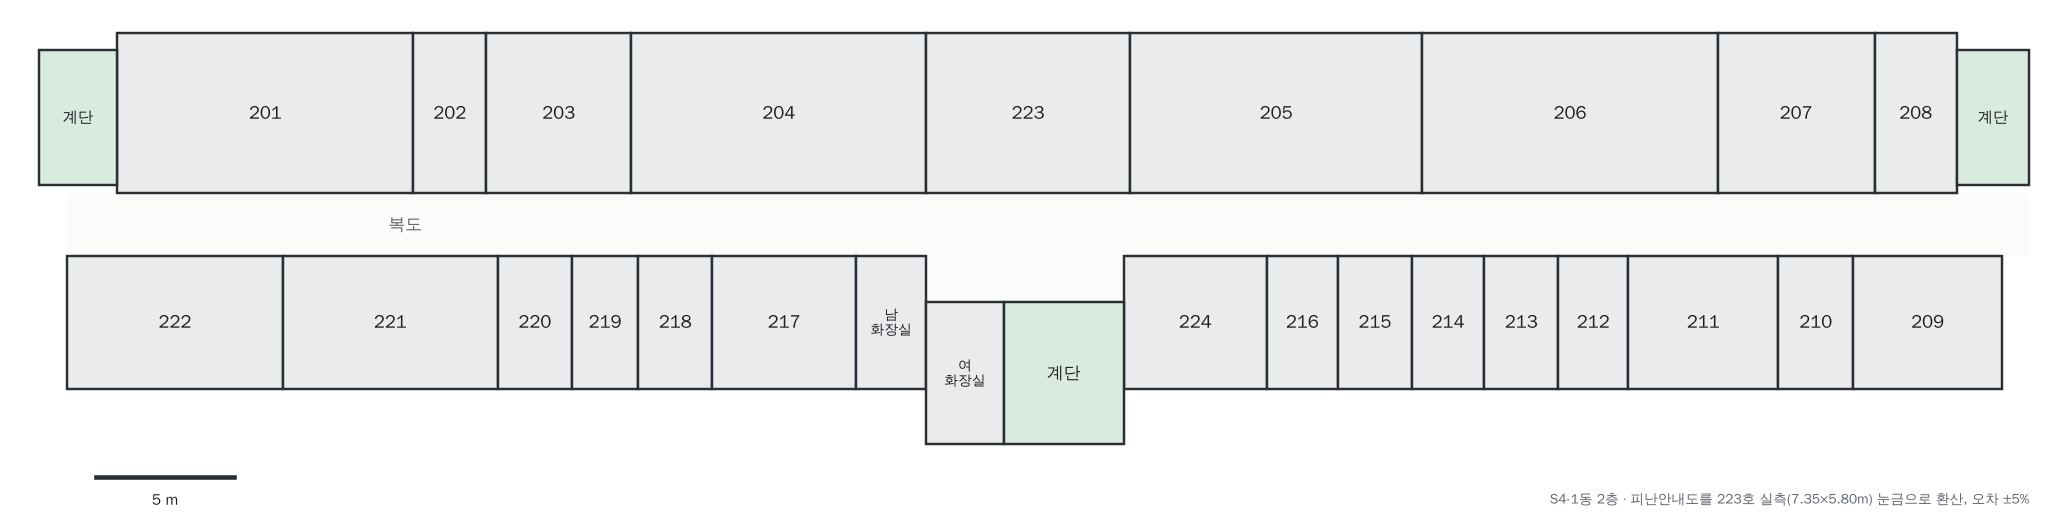
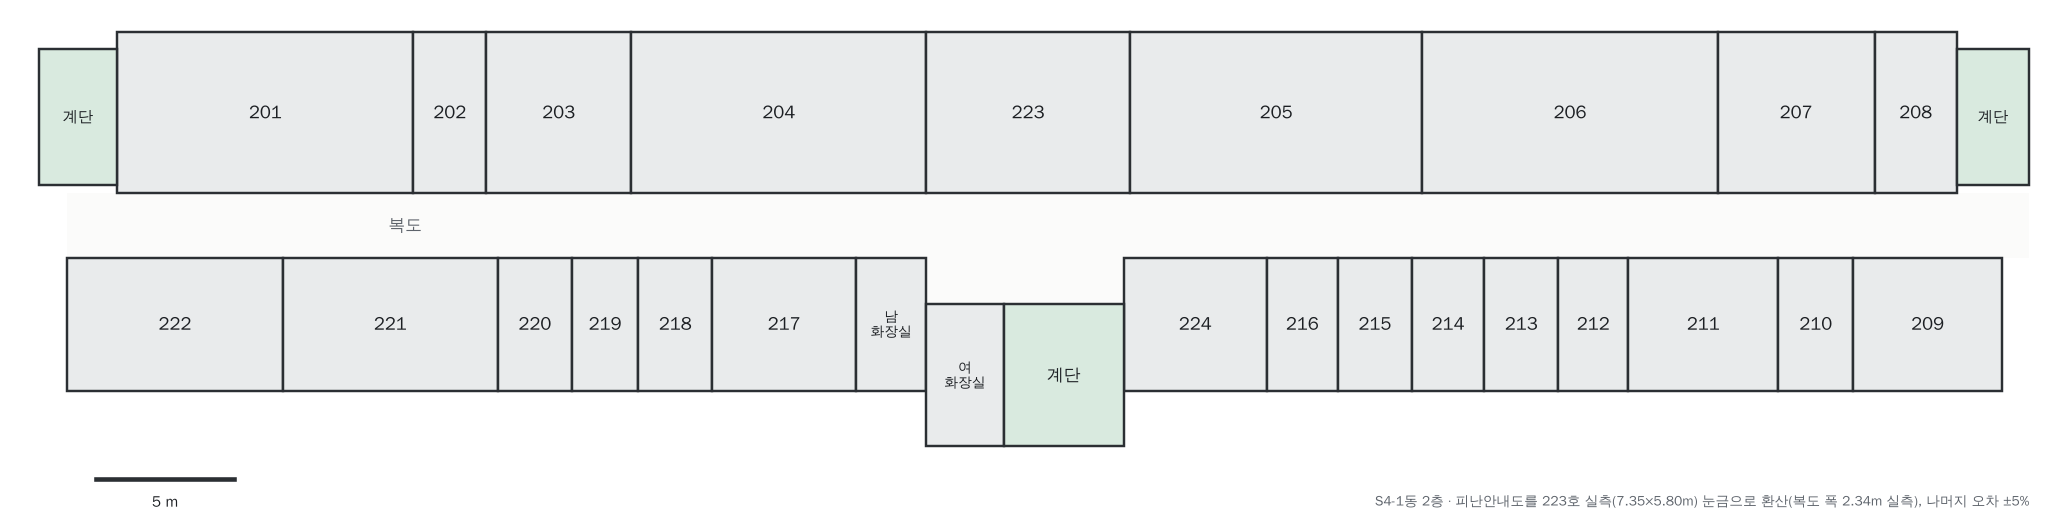
2층 평면도의 복도 폭을 실측 2.34m로
Claude-Session: https://claude.ai/code/session_012ZCgwpAHXH6LRG41FL7VDD

diff --git a/docs/site/make_plan.py b/docs/site/make_plan.py
@@ -19,7 +19,7 @@ S = 7.35 / 171          # m/px: 223호 가로 7.35m = 171px (세로 5.80m = 135p
 X0 = 92
 def X(px): return (px - X0) * S
 
-BOT, COR, TOP = 4.80, 2.25, 5.80        # 아래 줄 깊이, 복도 폭, 위 줄 깊이(m)
+BOT, COR, TOP = 4.80, 2.34, 5.80        # 아래 줄 깊이, 복도 폭(실측 2.34m), 위 줄 깊이(m)
 YB0, YC0, YT0 = 0.0, BOT, BOT + COR
 YT1 = YT0 + TOP
 
@@ -55,7 +55,7 @@ def draw(ax, annotate: bool):
     # 축척 막대 5m
     ax.plot([X(140), X(140) + 5], [-3.2, -3.2], color=WALL, lw=3)
     ax.text(X(140) + 2.5, -3.75, "5 m", ha="center", va="top", fontsize=10, color=TXT)
-    ax.text(X(1765), -3.75, "S4-1동 2층 · 피난안내도를 223호 실측(7.35×5.80m) 눈금으로 환산, 오차 ±5%",
+    ax.text(X(1765), -3.75, "S4-1동 2층 · 피난안내도를 223호 실측(7.35×5.80m) 눈금으로 환산(복도 폭 2.34m 실측), 나머지 오차 ±5%",
             ha="right", va="top", fontsize=9, color="#5d636b")
 
     if annotate:
@@ -68,7 +68,7 @@ def draw(ax, annotate: bool):
         ax.text(X(1124) - 0.15, YB0 + BOT / 2, "≈4.7 m", ha="right", va="center", fontsize=8, rotation=90)
         ax.text(X(1009) + 0.2, YT0 + TOP / 2, "5.80 m(실측)", ha="left", va="center", fontsize=8, rotation=90)
         ax.annotate("", xy=(X(1670), YC0), xytext=(X(1670), YT0), arrowprops=dict(arrowstyle="<->", color=WALL, lw=1))
-        ax.text(X(1670) - 0.25, YC0 + COR / 2, "복도 ≈2.25 m", ha="right", va="center", fontsize=9)
+        ax.text(X(1670) - 0.25, YC0 + COR / 2, "복도 2.34 m(실측)", ha="right", va="center", fontsize=9)
         # 배치 예시
         tx = (X(1006), YC0 + COR / 2)
         nodes = {"RX-301": ((X(838) + X(1009)) / 2 - 1.2, YT0 + 1.7), "RX-302": ((X(1004) + X(1124)) / 2, 1.3),

diff --git a/docs/site/README.md b/docs/site/README.md
@@ -19,13 +19,13 @@
 
 ## 치수
 
-복도의 피난안내도(축척대로 그려짐)를 사진으로 찍고, 223호 실측값(가로 7.35m, 세로 5.80m)으로 픽셀을 미터로 바꿨습니다. 223호의 사진 속 가로·세로 비율(171:135)이 실측 비율(7.35:5.80)과 같아서 축척이 맞는 것을 확인했습니다. 사진 원근 때문에 ±5% 정도 오차가 있으니, 실험에 쓰는 224호와 복도 폭은 줄자로 한 번 재서 고칩니다.
+복도의 피난안내도(축척대로 그려짐)를 사진으로 찍고, 223호 실측값(가로 7.35m, 세로 5.80m)으로 픽셀을 미터로 바꿨습니다. 223호의 사진 속 가로·세로 비율(171:135)이 실측 비율(7.35:5.80)과 같아서 축척이 맞는 것을 확인했습니다. 사진 원근 때문에 ±5% 정도 오차가 있습니다. 복도 폭은 실측(2.34m)으로 바꿨고, 실험에 쓰는 224호도 줄자로 재면 고칩니다.
 
 | 구분 | 값 |
 |---|---|
 | 건물 길이 | 약 70m(양끝 계단 포함 약 72m) |
 | 위 줄 방 깊이(201~208, 223) | 5.80m |
-| 복도 폭 | 약 2.25m |
+| 복도 폭 | 2.34m(실측, 안내도 환산값 2.25m와 4% 차이) |
 | 아래 줄 방 깊이(209~222, 224) | 약 4.8m |
 | 223호 | 7.35 × 5.80m(실측) |
 | 224호 | 약 5.2 × 4.7m |
